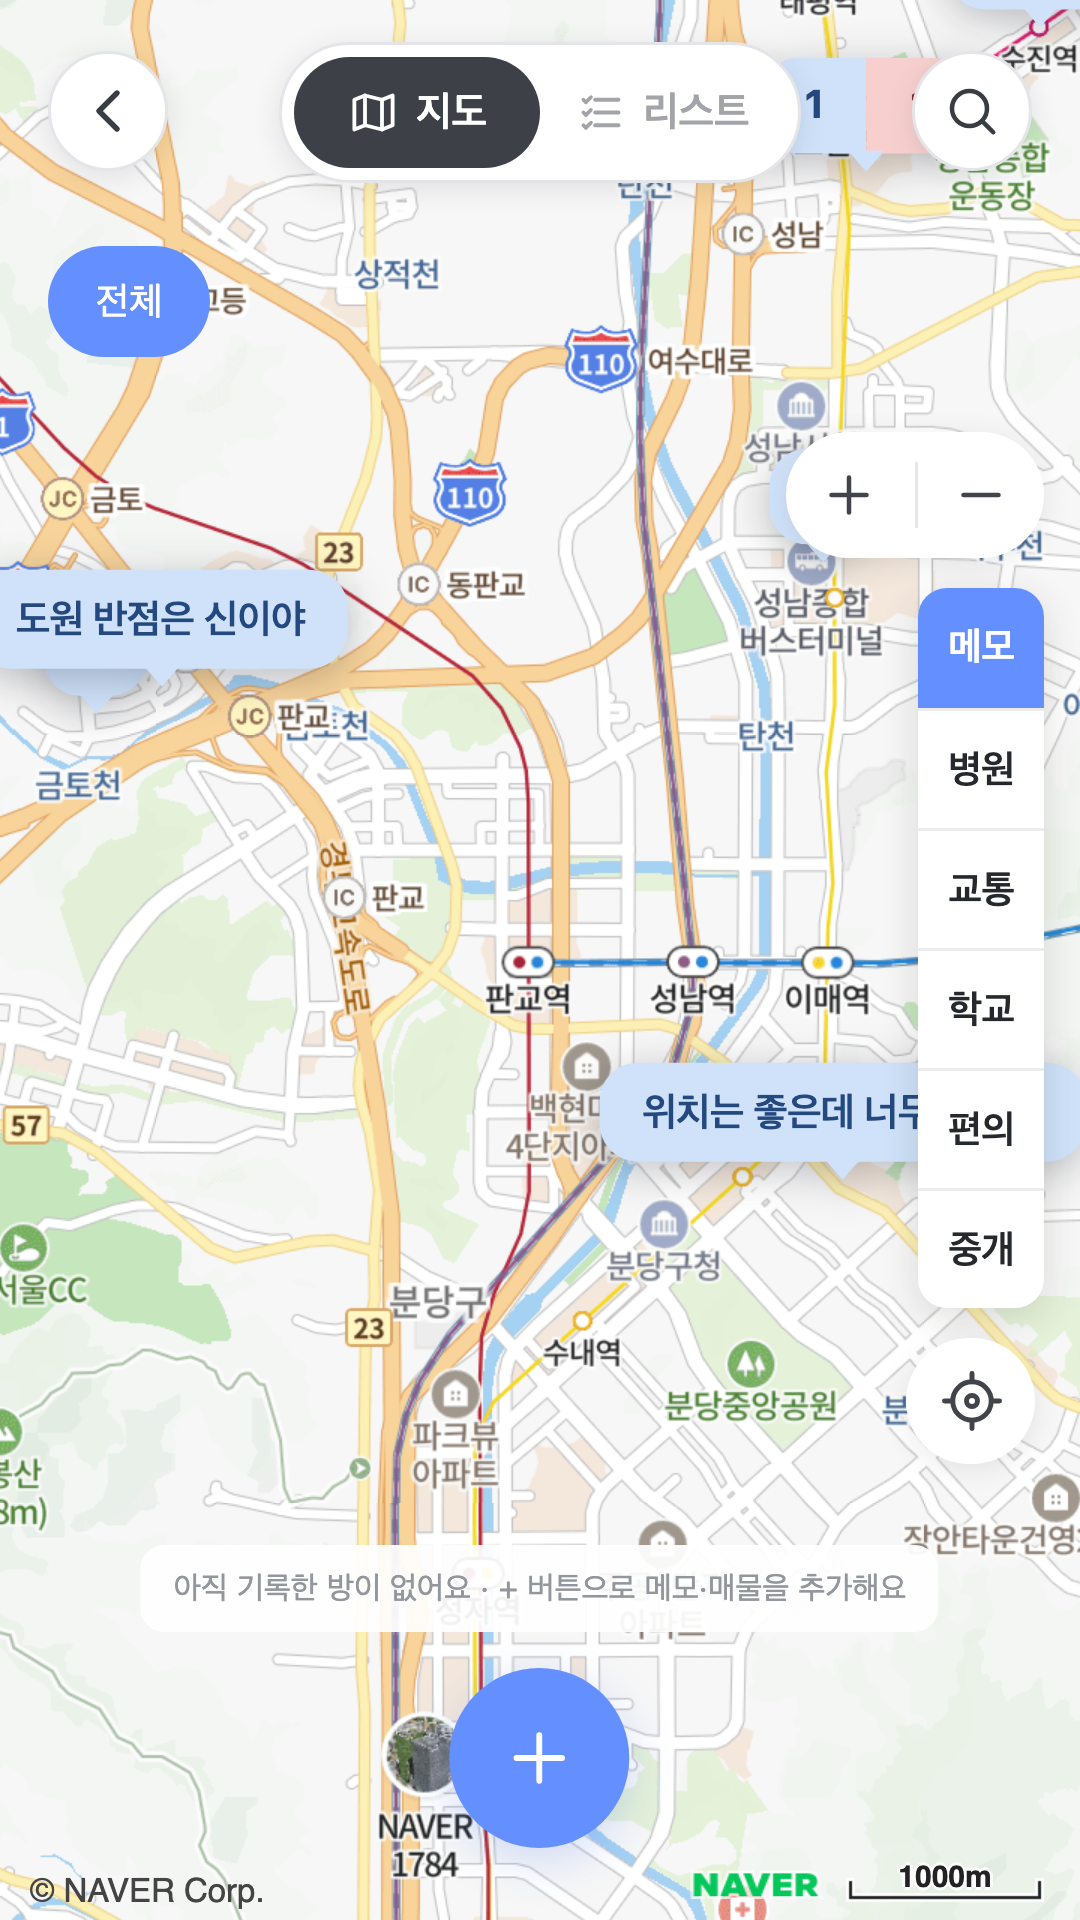
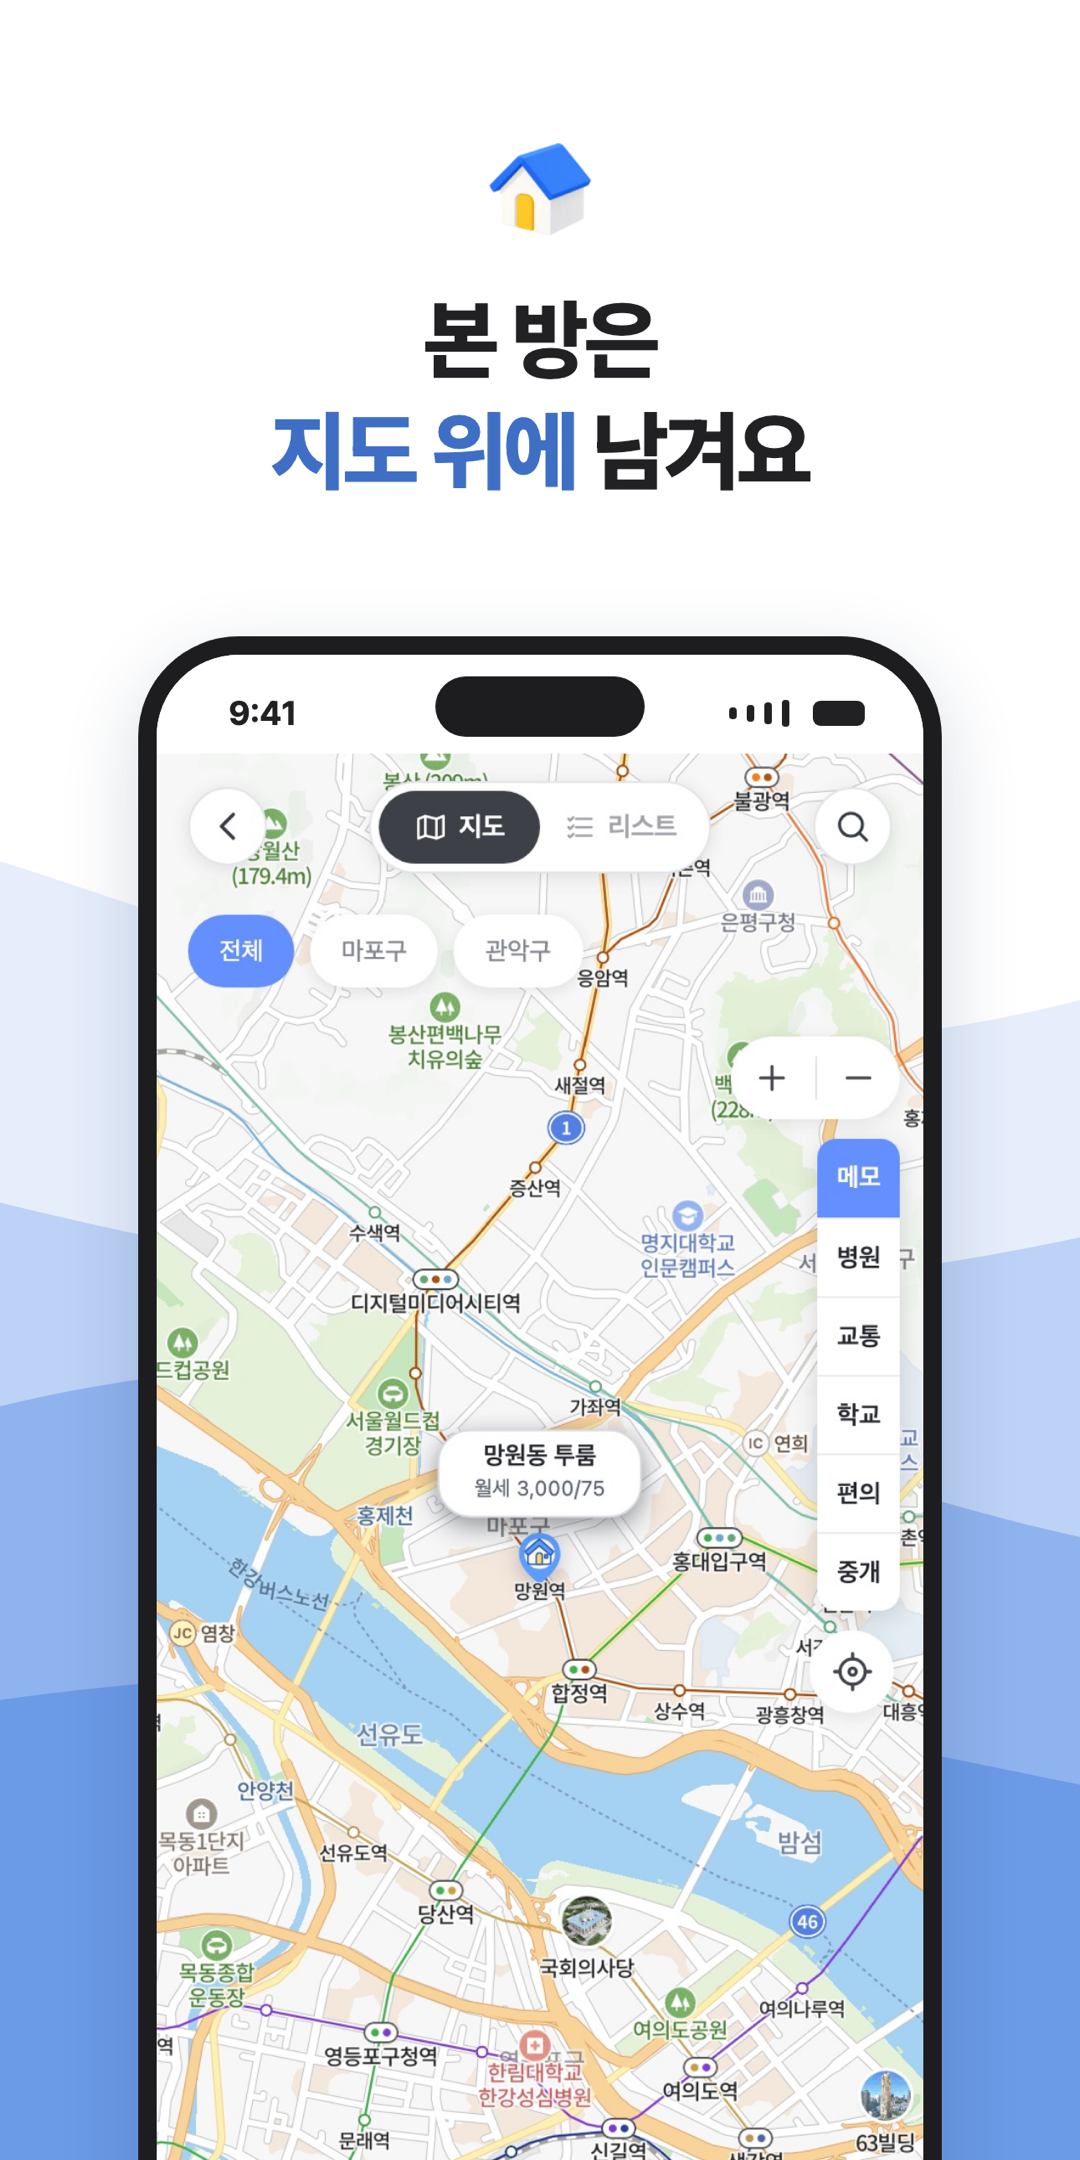
[APP][Chore] 앱 스토어 스크린샷을 지금 화면으로 바꾸고 다시 찍는 템플릿을 둔다 (#528)
* chore: 앱 스토어 스크린샷을 새 디자인으로 바꾸고 다시 찍는 템플릿을 둔다

* docs: 동네 찾기 스크린샷이 임시 캡처임을 적는다

* docs: 동네 찾기 임시 캡처 안내를 다른 문장 말투에 맞춘다

diff --git a/mobile/store-assets/template/index.html b/mobile/store-assets/template/index.html
@@ -1,0 +1,101 @@
+<!doctype html>
+<html lang="ko">
+<head>
+<meta charset="utf-8">
+<title>자취선배 스토어 스크린샷</title>
+<script>
+// 장면 목록. 순서대로 01 ~ 06 파일이 되고, 물결도 이 순서로 이어진다.
+// icon은 frontend/src/shared/assets/illustrations, screen은 frontend/src/shared/assets/app-screens 안의 파일 이름이다.
+const SCENES = [
+  { id: 'hero', name: '자취선배', title: ['직접 쓴 기록이', '<em>방을 고르는 기준</em>이 되도록'] },
+  { id: 'explore', icon: 'icon-map.webp', title: ['출퇴근 시간으로', '<em>살 동네</em> 찾기'], screen: 'explore-mobile.jpg' },
+  { id: 'records', icon: 'icon-home.webp', title: ['본 방은', '<em>지도 위에</em> 남겨요'], screen: 'records-mobile.jpg' },
+  { id: 'checklist', icon: 'icon-info.webp', title: ['놓친 게 없는지', '<em>하나씩</em> 확인해요'], screen: 'checklist-mobile.jpg' },
+  { id: 'compare', icon: 'rank-1.webp', title: ['고민되는 방은', '<em>나란히</em> 놓고 골라요'], screen: 'compare-mobile.jpg' },
+  { id: 'cheap-meals', icon: 'icon-map.webp', title: ['그 동네 한 끼 값도', '<em>미리</em> 봐요'], screen: 'cheap-meals-mobile.jpg' },
+];
+const ASSETS = '../../../frontend/src/shared/assets';
+const DUCK = '../ios/app-icon-source.png';
+</script>
+<link rel="stylesheet" href="https://cdn.jsdelivr.net/npm/pretendard@1.3.9/dist/web/variable/pretendardvariable.css">
+<style>
+/* 설치된 Pretendard를 먼저 쓰고, 없으면 위 jsDelivr 웹폰트를 쓴다. */
+@font-face { font-family: 'Pretendard Local'; src: local('Pretendard Variable'), local('PretendardVariable'); font-weight: 100 900; }
+:root { --blue: #6b9ae6; --blue-ink: #3f6fc4; --yellow: #f5b91e; --ink: #212124; --soft: #5c5f66; }
+* { box-sizing: border-box; margin: 0; }
+html, body { width: 1290px; height: var(--h); overflow: hidden; background: #fff; font-family: 'Pretendard Local', 'Pretendard Variable', sans-serif; color: var(--ink); }
+.slide { position: relative; width: 1290px; height: var(--h); overflow: hidden; background: #fff; }
+.wave { position: absolute; inset: 0; width: 1290px; height: var(--h); }
+.head, .phone, .hero .name, .hero .duck, .hero .copy { z-index: 1; }
+.head { position: absolute; top: 190px; left: 0; right: 0; text-align: center; }
+.head img { width: 150px; height: 150px; }
+.head h1 { margin-top: 36px; font-size: 104px; font-weight: 800; line-height: 1.28; letter-spacing: -0.035em; }
+.head h1 em { font-style: normal; color: var(--blue-ink); }
+.phone { position: absolute; left: 50%; top: 820px; width: 960px; transform: translateX(-50%);
+  border: 22px solid #1d1d1f; border-bottom: 0; border-radius: 120px 120px 0 0; background: #fff; overflow: hidden;
+  box-shadow: 0 30px 90px rgba(30, 50, 90, 0.18); }
+.status { height: 118px; display: flex; align-items: center; justify-content: space-between; padding: 22px 70px 0 86px;
+  font-size: 40px; font-weight: 700; background: #fff; position: relative; }
+.status::after { content: ''; position: absolute; left: 50%; top: 26px; width: 250px; height: 72px; transform: translateX(-50%); background: #1d1d1f; border-radius: 40px; }
+.bars { display: flex; gap: 12px; align-items: center; }
+.bars i { display: block; background: var(--ink); border-radius: 4px; }
+.screen { display: block; width: 100%; }
+.hero .duck { position: absolute; left: 50%; width: 560px; height: 560px; transform: translateX(-50%); border-radius: 132px; box-shadow: 0 36px 90px rgba(63, 111, 196, 0.32); }
+.hero .name { position: absolute; left: 0; right: 0; text-align: center; font-size: 150px; font-weight: 900; color: var(--ink); letter-spacing: -0.05em; line-height: 1; }
+.hero .copy { position: absolute; left: 0; right: 0; text-align: center; }
+.hero h1 { font-size: 92px; font-weight: 800; line-height: 1.32; letter-spacing: -0.04em; }
+.hero h1 em { font-style: normal; color: var(--blue-ink); }
+</style>
+</head>
+<body>
+<div id="root"></div>
+<script>
+// ?s=<장면 id>&h=<세로 픽셀>. 가로는 늘 1290px이다.
+const q = new URLSearchParams(location.search);
+const id = q.get('s') || SCENES[0].id;
+const h = Number(q.get('h') || 2796);
+const k = h / 2796;
+document.documentElement.style.setProperty('--h', h + 'px');
+
+// 6장 전체 폭에 걸친 사인파 4겹을 그리고, 각 장은 viewBox로 자기 구간만 보여 준다.
+const W = 1290 * SCENES.length;
+const LAYERS = [
+  { base: 1180, amp: 170, len: 2900, phase: 0.3, color: '#e6eefc' },
+  { base: 1520, amp: 150, len: 3500, phase: 1.9, color: '#bcd2f6' },
+  { base: 1900, amp: 130, len: 2500, phase: 3.6, color: '#8fb3ee' },
+  { base: 2280, amp: 110, len: 3100, phase: 5.0, color: '#6b9ae6' },
+];
+const wave = () => {
+  const paths = LAYERS.map((l) => {
+    let d = `M0 ${h}`;
+    for (let x = 0; x <= W; x += 30) {
+      const y = (l.base + l.amp * Math.sin((2 * Math.PI * x) / l.len + l.phase)) * k;
+      d += ` L${x} ${y.toFixed(1)}`;
+    }
+    return `<path d="${d} L${W} ${h} Z" fill="${l.color}"/>`;
+  }).join('');
+  const i = SCENES.findIndex((s) => s.id === id);
+  return `<svg class="wave" viewBox="${i * 1290} 0 1290 ${h}" preserveAspectRatio="none">${paths}</svg>`;
+};
+
+const status = `<div class="status"><span>9:41</span><span class="bars">
+  <i style="width:9px;height:14px"></i><i style="width:9px;height:20px"></i><i style="width:9px;height:26px"></i><i style="width:9px;height:32px"></i>
+  <i style="width:62px;height:30px;border-radius:9px;margin-left:16px"></i></span></div>`;
+
+const s = SCENES.find((x) => x.id === id);
+const root = document.getElementById('root');
+if (!s.screen) {
+  root.innerHTML = `<div class="slide hero">${wave()}
+    <img class="duck" style="top:${420 * k}px" src="${DUCK}">
+    <div class="name" style="top:${420 * k + 560 + 70}px">${s.name}</div>
+    <div class="copy" style="top:${420 * k + 560 + 70 + 230}px"><h1>${s.title.join('<br>')}</h1></div>
+  </div>`;
+} else {
+  const short = h < 2700;
+  root.innerHTML = `<div class="slide">${wave()}
+    <div class="head" style="top:${short ? 150 : 190}px"><img src="${ASSETS}/illustrations/${s.icon}"><h1>${s.title.join('<br>')}</h1></div>
+    <div class="phone" style="top:${short ? 760 : 820}px">${status}<img class="screen" src="${ASSETS}/app-screens/${s.screen}"></div></div>`;
+}
+</script>
+</body>
+</html>

diff --git a/mobile/store-assets/ios/README.md b/mobile/store-assets/ios/README.md
@@ -1,8 +1,30 @@
-# App Store 스크린샷
+# 스토어 스크린샷
 
-`6.7-inch/`는 App Store Connect의 6.7인치 iPhone 규격(1284×2778)으로 캡처합니다.
+App Store와 Google Play에 올리는 스크린샷 6장은 `../template/index.html`로 만듭니다.
 
-스크린샷에는 실제 사용자 개인정보나 개발 도구 UI가 포함되지 않아야 합니다.
+| 위치                | 크기      | 쓰는 곳                                                   |
+| ------------------- | --------- | --------------------------------------------------------- |
+| `6.7-inch/`         | 1290×2796 | App Store Connect의 6.9인치와 6.7인치 iPhone 칸에 함께 씀 |
+| `../android/phone/` | 1080×2160 | Google Play 휴대전화 스크린샷(긴 변이 짧은 변의 2배 이하) |
+
+파일 이름은 `01-hero.png`부터 `06-cheap-meals.png`까지이며, 이 순서대로 올려야 배경 물결이 이어집니다.
+
+> `02-explore.png`는 지금 동네 찾기 화면을 임시로 씁니다. 동네 찾기 디자인이 바뀌면 `frontend/src/shared/assets/app-screens/explore-mobile.jpg`를 바꾼 뒤 `render.sh`를 다시 실행합니다.
+
+## 다시 만들기
+
+앱 화면이 바뀌면 캡처를 바꾼 뒤 스크립트를 다시 돌립니다.
+
+1. 새 휴대폰 캡처(780×1688)로 `frontend/src/shared/assets/app-screens/*-mobile.jpg`를 바꿉니다. 랜딩 페이지도 같은 파일을 씁니다.
+2. 문구, 아이콘, 캡처 파일을 바꾸려면 `../template/index.html` 맨 위 `SCENES`만 고칩니다. 장면을 더하거나 빼면 `render.sh`의 `SCENES`도 같은 순서로 맞춥니다.
+3. macOS에서 `mobile/store-assets/template/render.sh`를 실행합니다. Google Chrome 헤드리스로 찍고 Android용은 `sips`로 줄입니다. Chrome 위치가 다르면 `CHROME` 환경 변수로 지정합니다.
+4. 결과 크기를 `sips -g pixelWidth -g pixelHeight`로 확인합니다.
+
+템플릿은 이미지를 복사하지 않고 저장소 안 원본(`app-screens`, `illustrations`, `app-icon-source.png`)을 상대 경로로 읽습니다.
+폰트는 설치된 Pretendard를 먼저 쓰고, 없으면 jsDelivr의 `pretendard@1.3.9` 웹폰트를 받습니다.
+브라우저에서 확인하려면 `index.html?s=explore&h=2796`처럼 장면 id와 세로 크기를 붙여 엽니다.
+
+캡처에는 개인정보가 없는 dev 익명 계정 화면만 쓰고, 실제 사용자 정보나 개발 도구 UI가 보이지 않게 합니다.
 
 ## 앱 아이콘
 

diff --git a/mobile/README.md b/mobile/README.md
@@ -58,6 +58,7 @@ npm run format:docs:check
 - iOS는 `.xcworkspace`로 열고 Push Notifications entitlement를 포함한 올바른 팀/프로파일로 서명한다. APNs 키를 Firebase에 연결한 후 실기기에서 확인한다.
 - Android는 기존 업로드 키를 유지한다. 환경 변수 또는 개인 Gradle 설정에 `JACHWI_UPLOAD_STORE_FILE`, `JACHWI_UPLOAD_STORE_PASSWORD`, `JACHWI_UPLOAD_KEY_ALIAS`, `JACHWI_UPLOAD_KEY_PASSWORD`를 제공한 뒤 `cd android && ./gradlew bundleRelease`로 만든다.
 - Play Store 등록용 아이콘은 `store-assets/android/play-store-icon-512.png`, App Store 아이콘은 iOS AppIcon asset catalog에 있다.
+- 스토어 스크린샷은 `store-assets/ios/6.7-inch/`와 `store-assets/android/phone/`에 있고, `store-assets/template/render.sh`로 다시 만든다. 자세한 방법은 [스토어 스크린샷](store-assets/ios/README.md)을 따른다.
 - 키스토어, APNs 키, 서비스 계정 키, IPA/AAB/아카이브는 커밋하지 않는다. 기존 스토어 앱 ID를 바꾸지 않는다.
 - 푸시 목적·토큰 처리에 맞춰 개인정보처리방침과 스토어 수집 데이터 답변을 출시 전에 검토한다.
 
